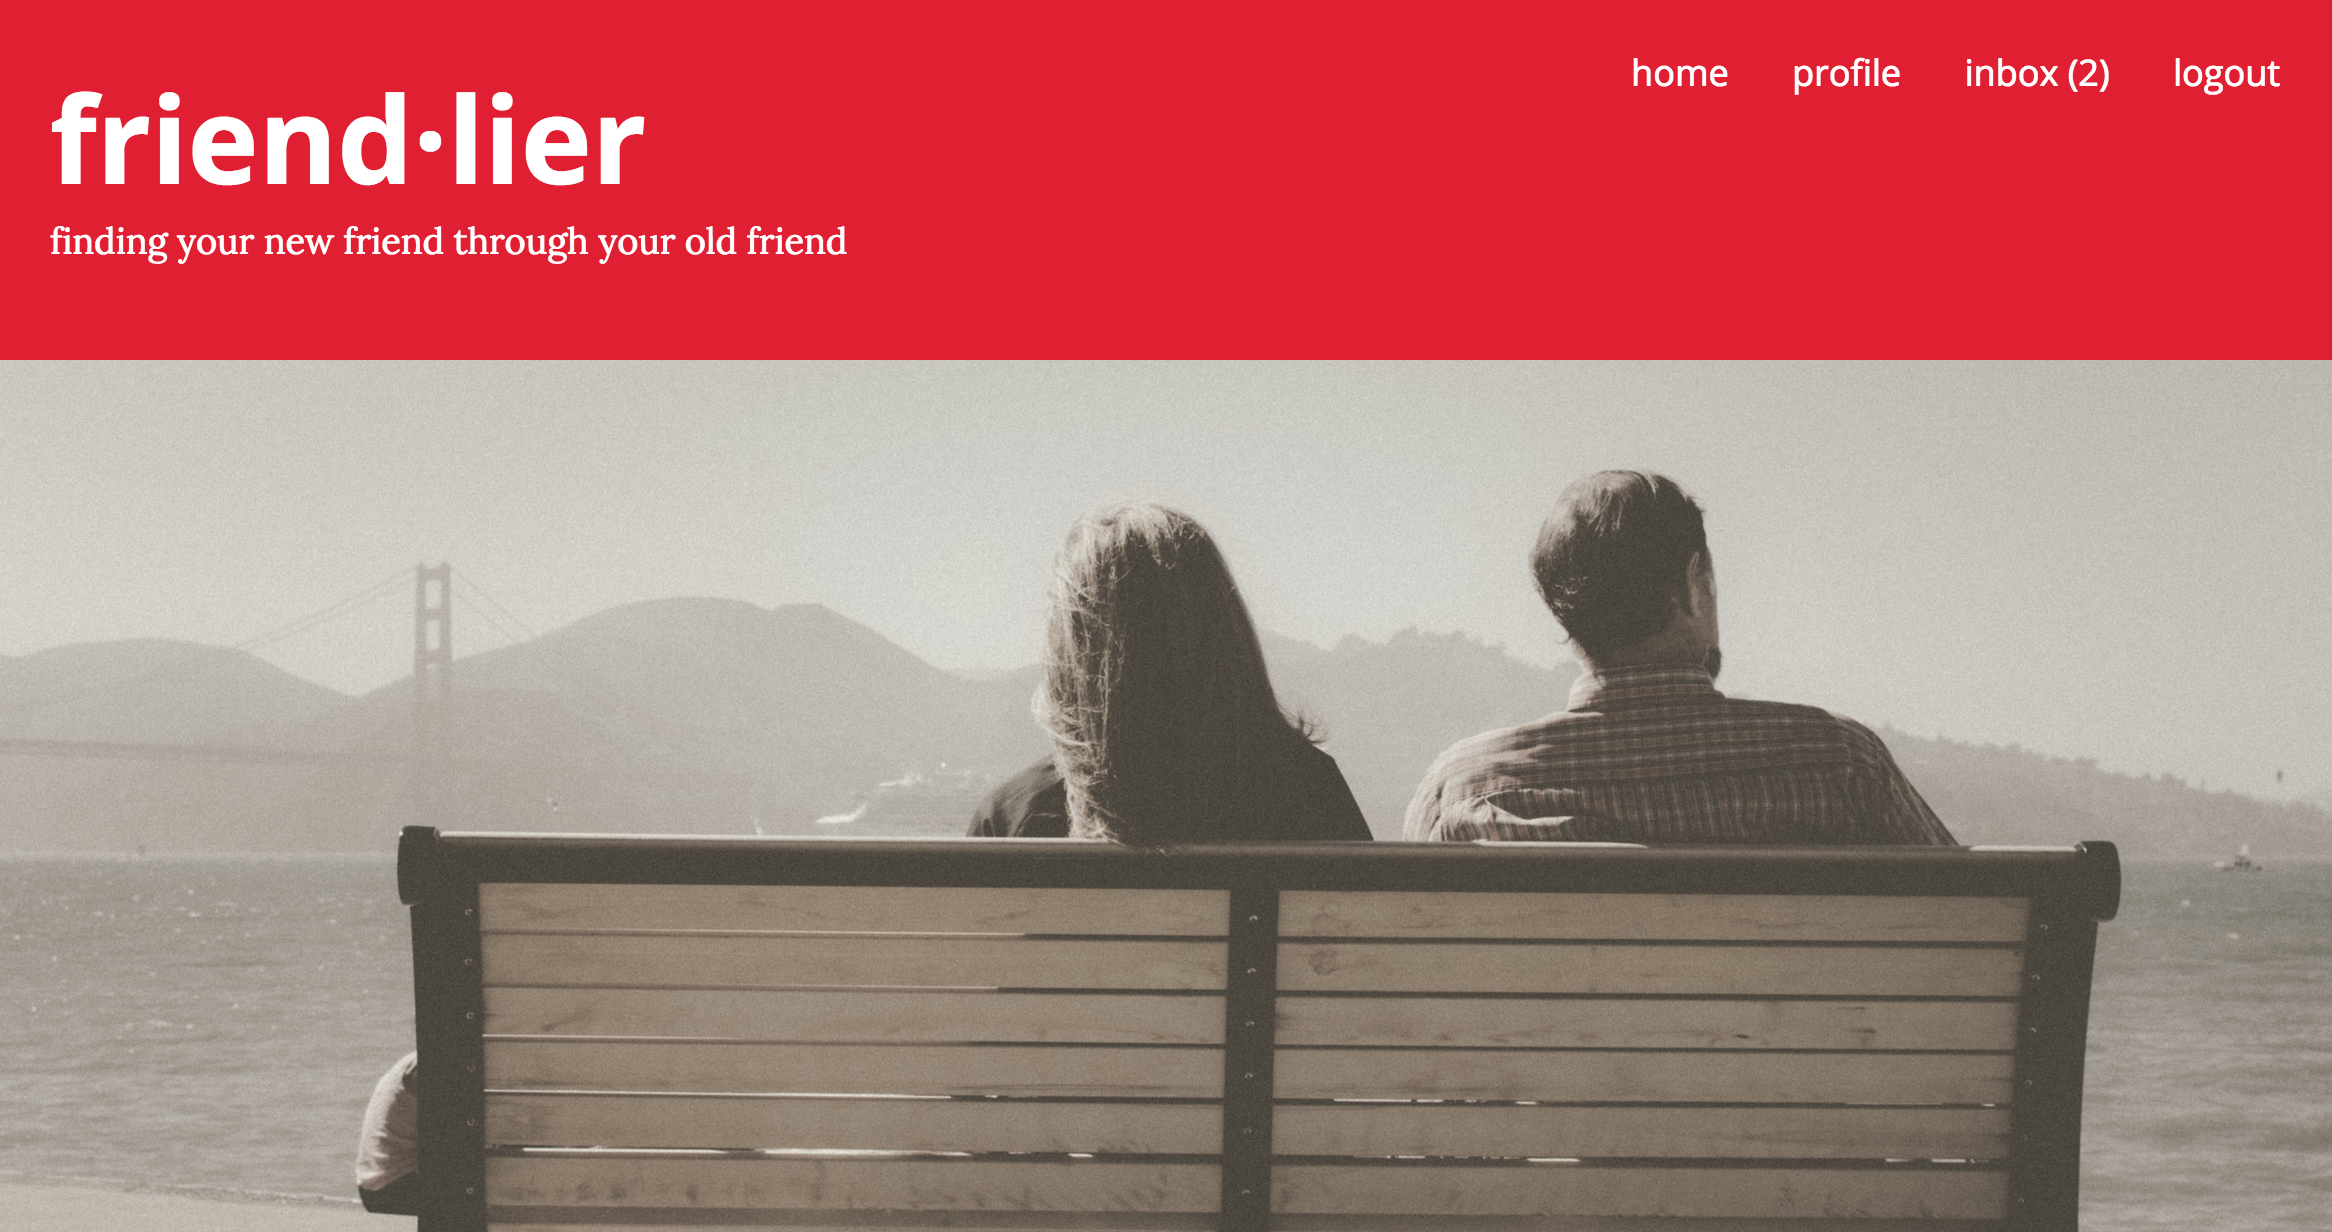
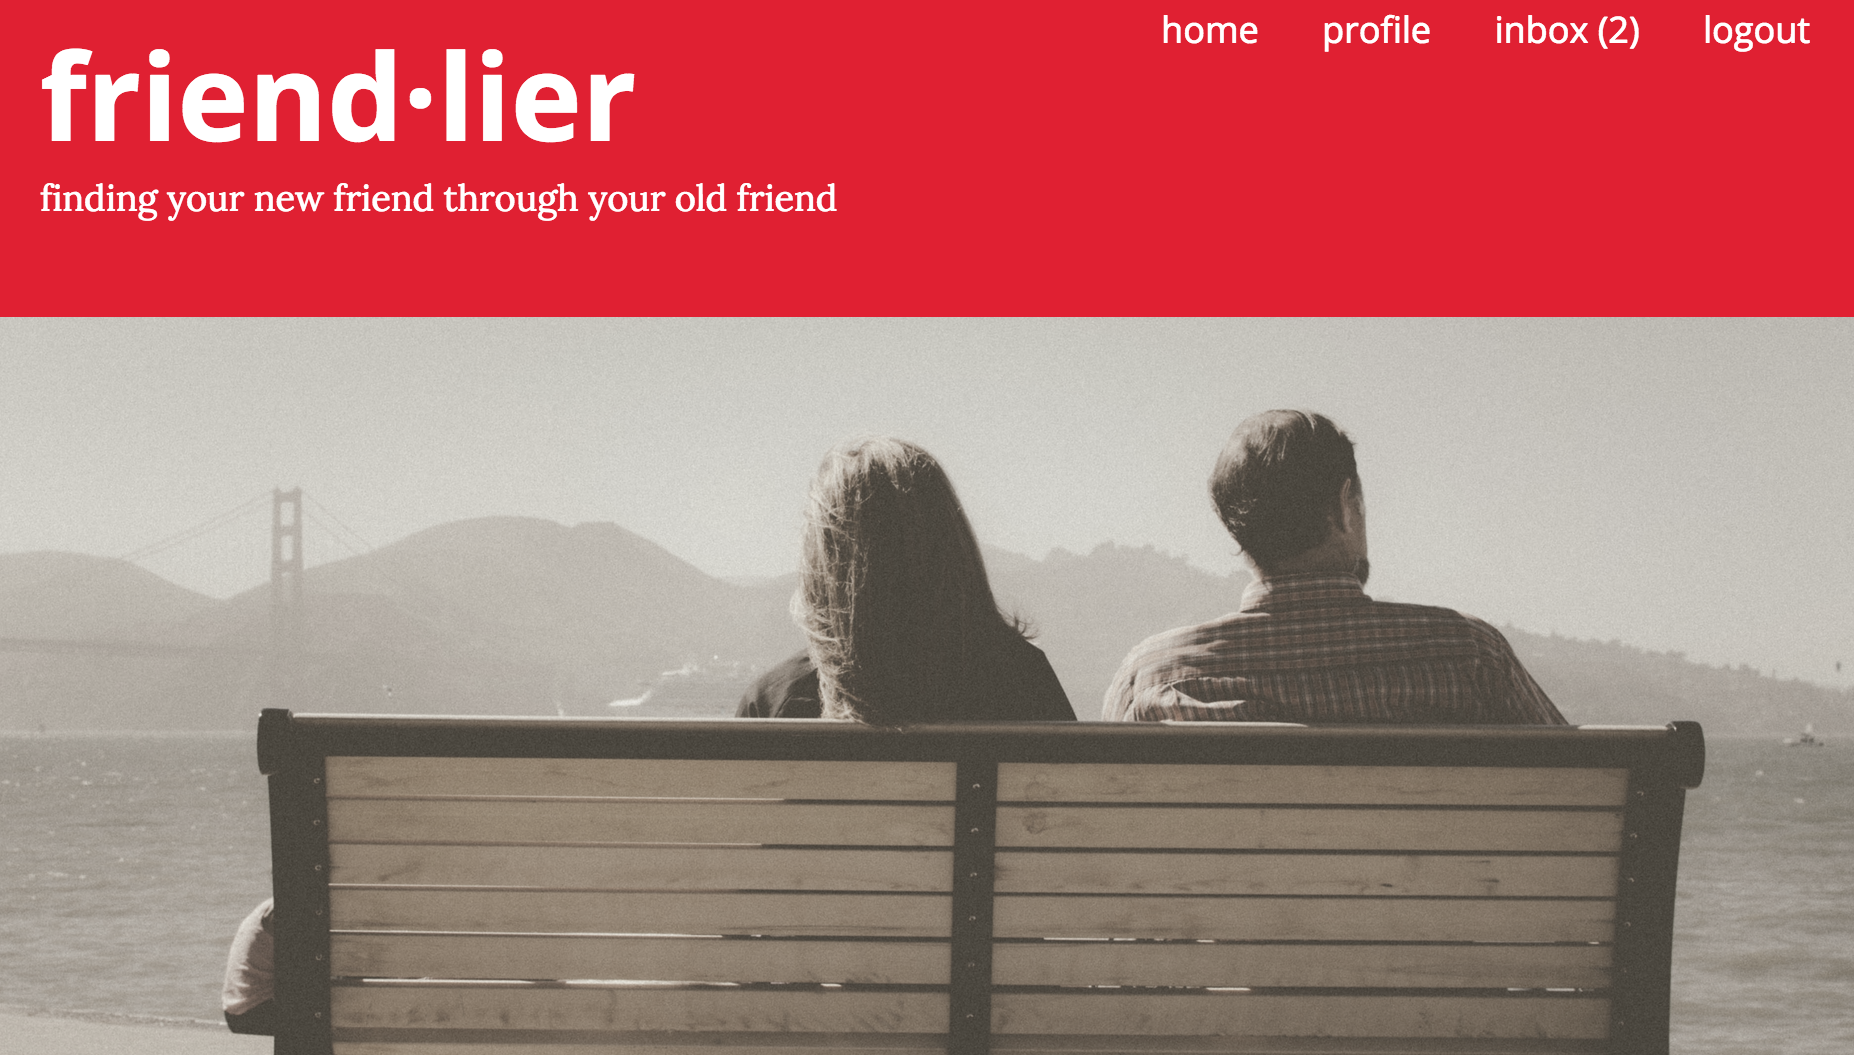
changed image size and style image hover

diff --git a/image-hover.css b/image-hover.css
@@ -32,7 +32,7 @@
   display: block;
   position: absolute;
   z-index: 20;
-  background: rgba(0, 0, 0, 0.6);
+  background: rgba(0, 0, 0, 0.8);
   overflow: hidden;
   transition: all 0.4s;
 }
